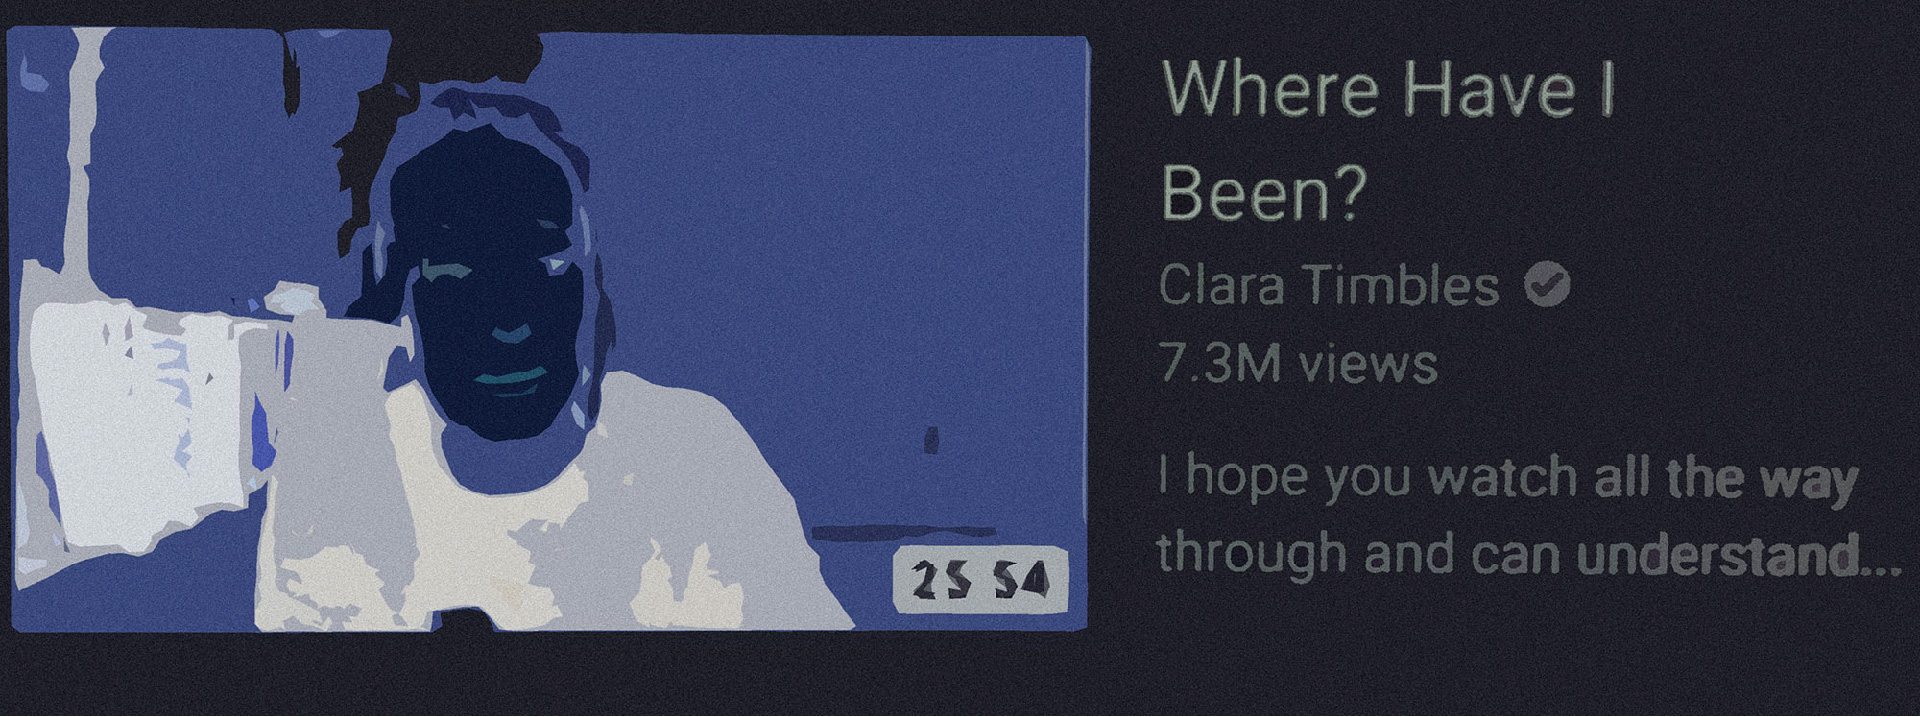
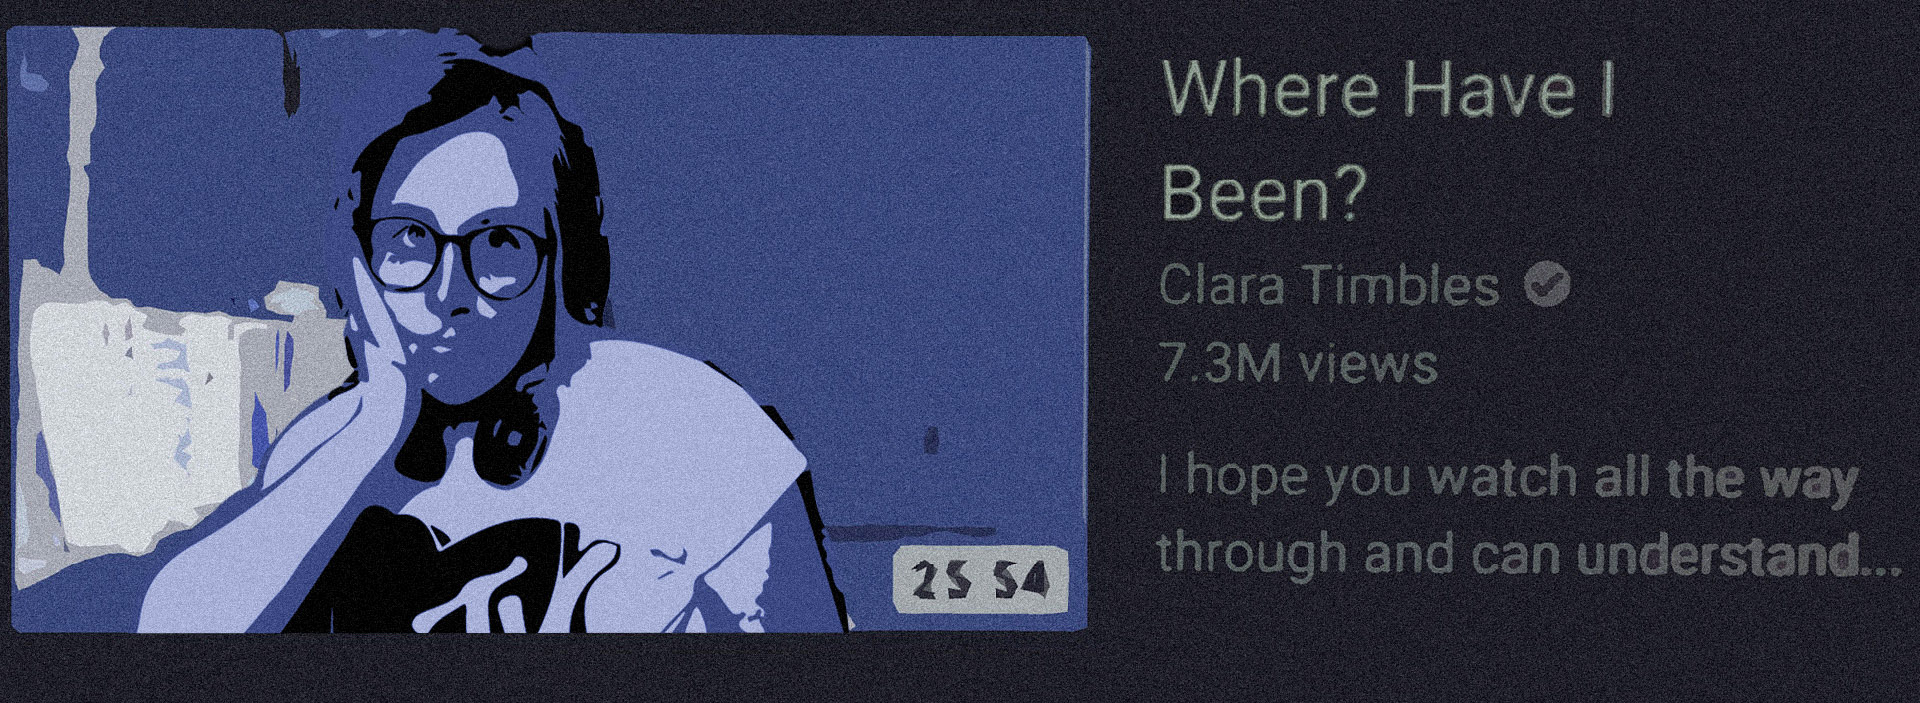
mobile updates

diff --git a/index.html b/index.html
@@ -27,8 +27,8 @@
   </style>
 
 <body style="padding-bottom: 0px;">
-  <div style="height:100%; width:100%;">
-  <p class="AMBIENT" style="font-style: bold; font-size: 400%; padding-bottom: 10px;">
+  <div class="dialogue" >
+  <p class="AMBIENT" style="font-style: bold; font-size: 400%; padding-bottom: 10px; line-height: 1.1;">
     It Is the Future and We Are Still Lonely
   </p>
   <p class="AMBIENT" style="font-size: 100%;">by Hart Crompton – Hart.Crompton@gmail.com

diff --git a/1a_Train.html b/1a_Train.html
@@ -24,13 +24,14 @@
     }
     body{
       background-image: url("images/train/train_background.jpg");
+      background-position:center;
     }
     mark{
       background-color:#f5fd74;
     }
   </style>
 
-<body style="padding-bottom: 0px;">
+<body style="padding-bottom: 0px; padding-top: 0px;">
   <div class="dialogue">
   <p class="JUNE"><mark>I had that dream again.</mark></p>
 

diff --git a/8_Content_Creator_Signoff.html b/8_Content_Creator_Signoff.html
@@ -46,7 +46,7 @@
   <mark class="white">ACTION: HUMAN_OVERSIGHT_REQUEST</mark><br>
   <mark class="white">REQUEST: REVIEW / EXPLICATE</mark></p>
   </div>
-  <img src="images/content_creator/clara_e.jpg" width="100%">
+  <img src="images/content_creator/clara.jpg" width="100%">
   <div class="dialogue">
   <p class="CREATOR">Happy Tueesssdayyy all my beautiful beautiful friends!</p>
   

diff --git a/9_Janet.html b/9_Janet.html
@@ -4,6 +4,7 @@
     <meta charset="utf-8">
     <meta http-equiv="x-ua-compatible" content="ie=edge">
     <meta name="viewport" content="width=device-width, initial-scale=1.0">
+    <meta name="format-detection" content="telephone=no">
     <link rel="stylesheet" href="style.css">
 </head>
 

diff --git a/email_1.html b/email_1.html
@@ -61,7 +61,7 @@
 
 <body style="padding-top: 0px;">
   <img src="images/emails/email_1.jpg" alt="" style="width: 100%;">
-  <div>
+  <div class="dialogue">
   <p class="JUNE">
     Really don’t need this right now
   </p>

diff --git a/email_3.html b/email_3.html
@@ -60,7 +60,7 @@
 
 <body style="padding-top: 0px;">
   <img src="images/emails/email_3.jpg" alt="" style="width: 100%;">
-  <div>
+  <div class="dialogue">
   <p class="JUNE">
     Delete<br>
     .<br>

diff --git a/email_2.html b/email_2.html
@@ -60,7 +60,7 @@
 
 <body style="padding-top: 0px;">
   <img src="images/emails/email_2.jpg" alt="" style="width: 100%;">
-  <div>
+  <div class="dialogue">
   <p class="JUNE">
     .<br>
     .<br>
